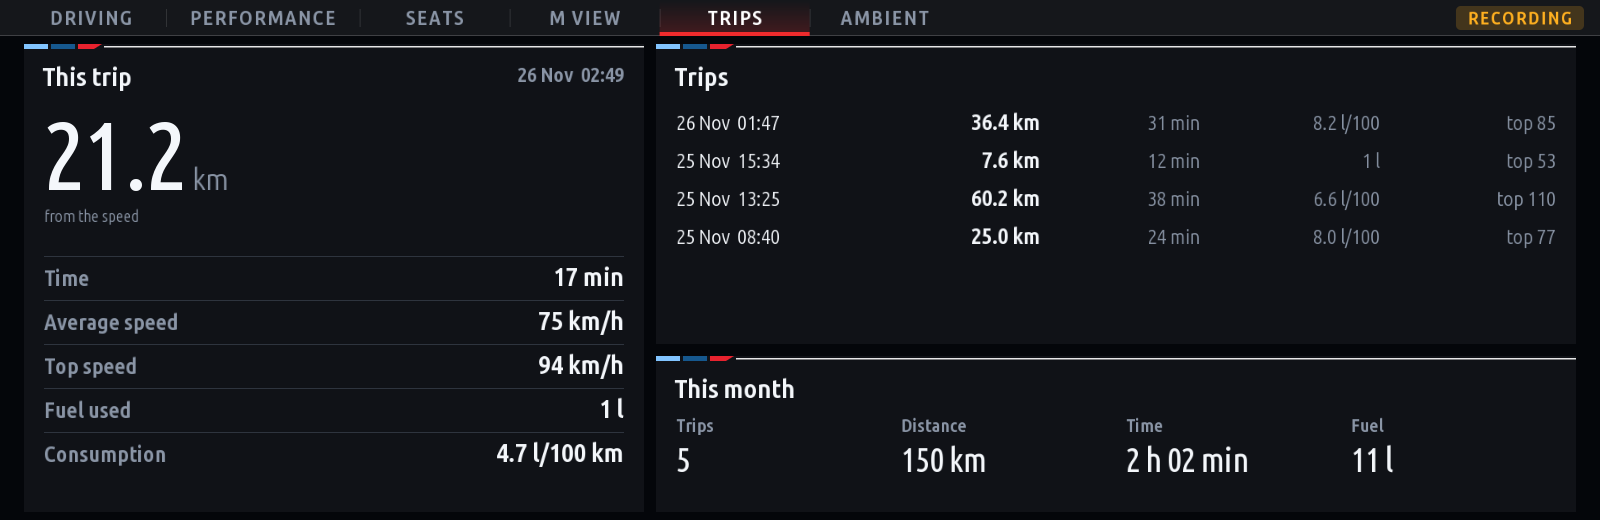
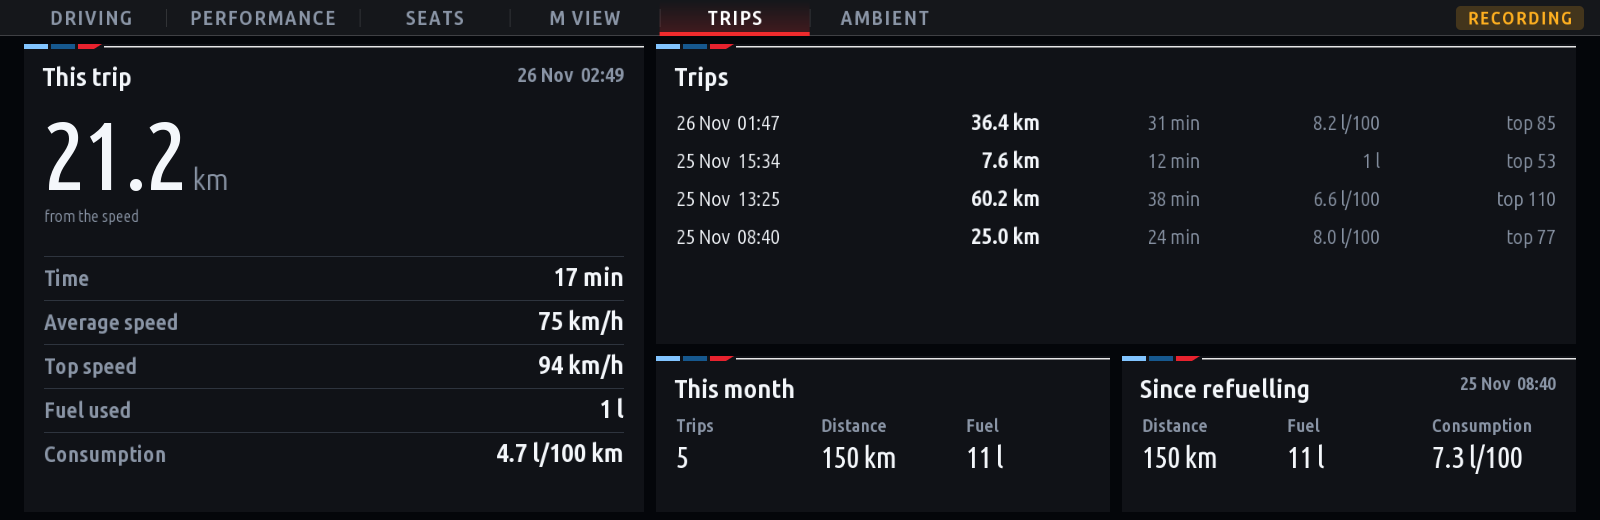
Trips: since refuelling - distance, fuel and consumption since the last refuel
A refuel: the tank's level 3 l or more over the lowest one since the last refuel, so also seen when it climbs a litre
at a time (Cockpit running at the pump) or happened between two drives (the last level kept in trips.json); the level
is followed up while it rises, so the count starts from the full tank. A trip's own fuel uses the same rule. The tab's
bottom right: This month and Since refuelling side by side. Tests: 100 Combo checks (the refuel cases new).

diff --git a/apps/cockpit_combo/trips.js b/apps/cockpit_combo/trips.js
@@ -11,6 +11,10 @@
  * Fuel: the tank's level (litres) at the start against the end; a rise of REFUEL_L or more is a refuel, and what was
  * used before it counts too. Consumption only from MIN_FUEL_KM on (the tank's level moves in whole litres).
  *
+ * Since refuelling: a rise of REFUEL_L or more in the tank's level, during a trip or between two (the level at a start
+ * against the last one known), starts a new count: the distance since (odometer or speed), the fuel since (the level
+ * just after the refuel less the level now) and the consumption, from MIN_FUEL_KM on.
+ *
  * Kept in trips.json in the app's data folder (at most KEEP trips, newest first): saved when a trip ends, every
  * SAVE_MS while one runs, and as the app exits; a trip running when the app stopped is resumed if the car is driven
  * again within RESUME_MS of its last save, else ended there.
@@ -18,7 +22,7 @@
  *   const tb = new Trips({ dataDir, log, now, settings })
  *   tb.tick({ speed, condition })     once a second: the speed (km/h) and the car's state (Car.conditionOf) now
  *   tb.odometer(km)  tb.fuel(litres)  the car's values as they come (null: not given)
- *   tb.current  tb.trips  tb.months()  tb.endNow()  tb.save()  tb.draw(cv, t)
+ *   tb.current  tb.trips  tb.months()  tb.sinceRefuel()  tb.endNow()  tb.save()  tb.draw(cv, t)
  */
 const fs = require('fs');
 const path = require('path');
@@ -50,12 +54,14 @@ class Trips {
         try { d = JSON.parse(fs.readFileSync(this.file, 'utf8')); } catch (e) { d = null; }
         if (!d) return;
         this.trips = Array.isArray(d.trips) ? d.trips.filter((x) => x && isNum(x.start)) : [];
+        if (d.since && isNum(d.since.at)) this.since = d.since;
+        if (isNum(d.level)) this.lastLevel = d.level;
         // a trip running when the app last stopped: resumed below if the car is driven again soon, else ended there
         if (d.current && isNum(d.current.start)) this.paused = d.current;
     }
     save() {
         if (!this.file) return;
-        try { writeWhole(this.file, JSON.stringify({ v: 1, current: this.current, trips: this.trips.slice(0, KEEP) })); this.savedAt = this.now(); } catch (e) { this.log.warn('trips: ' + e.message); }
+        try { writeWhole(this.file, JSON.stringify({ v: 1, current: this.current, since: this.since || null, level: isNum(this.lastLevel) ? this.lastLevel : null, trips: this.trips.slice(0, KEEP) })); this.savedAt = this.now(); } catch (e) { this.log.warn('trips: ' + e.message); }
     }
 
     /** The car's odometer in km (whole km), as it comes. */
@@ -63,22 +69,38 @@ class Trips {
         if (!isNum(km) || km <= 0 || km >= 16777214) return;
         if (this.odo === null) this.log.info('trips: odometer ' + km + ' km');
         this.odo = km;
+        if (this.since && !isNum(this.since.odo0)) this.since.odo0 = km;
         const c = this.current;
         if (c) { if (!isNum(c.odo0)) c.odo0 = km; c.odo1 = km; }
     }
-    /** The fuel in the tank, litres, as it comes. */
+    /**
+     * The fuel in the tank, litres, as it comes. A refuel: the level REFUEL_L or more over the lowest one since the last
+     * refuel (also when it climbs a litre at a time, the app running at the pump); the level is then followed up while
+     * it rises, so the count starts from the full tank.
+     */
     fuel(l) {
         if (!isNum(l) || l < 0 || l > 250) return;
         if (this.litres === null) this.log.info('trips: fuel in the tank ' + l + ' l');
         this.litres = l;
+        // since refuelling (the last level known kept across restarts: a refuel while the app wasn't running counts too)
+        if (!isNum(this.floor)) this.floor = isNum(this.lastLevel) ? Math.min(this.lastLevel, l) : l;
+        if (this.filling && this.since && l > this.floor) {
+            this.since.level = Math.max(this.since.level, l); this.floor = l;            // still filling up: the count from the top
+        } else if (l >= this.floor + REFUEL_L) {
+            this.log.info('trips: refuelled ' + this.floor + ' > ' + l + ' l: counting since refuelling');
+            this.since = { at: this.now(), level: l, kmSum: 0, odo0: isNum(this.odo) ? this.odo : null };
+            this.filling = true; this.floor = l;
+            this.save();
+        } else if (l < this.floor) { this.floor = l; this.filling = false; }
+        this.lastLevel = l;
+        // this trip's fuel: what the tank lost, before and after a refuel on the way
         const c = this.current;
         if (!c) return;
-        if (!isNum(c.fuel0)) { c.fuel0 = l; c.fuelBase = l; c.fuelUsed = 0; c.fuelLast = l; return; }
-        if (l >= c.fuelLast + REFUEL_L) {
-            // a refuel: what the tank lost since the last base counts, the new level is the base from here
-            c.fuelUsed += Math.max(0, c.fuelBase - c.fuelLast); c.fuelBase = l; c.refuelled = true;
-            this.log.info('trips: refuelled to ' + l + ' l');
-        }
+        if (!isNum(c.fuel0)) { c.fuel0 = l; c.fuelBase = l; c.fuelUsed = 0; c.fuelLow = l; c.fuelLast = l; return; }
+        if (c.filling && l > c.fuelLow) { c.fuelBase = Math.max(c.fuelBase, l); c.fuelLow = l; }
+        else if (l >= c.fuelLow + REFUEL_L) {
+            c.fuelUsed += Math.max(0, c.fuelBase - c.fuelLow); c.refuelled = true; c.filling = true; c.fuelBase = l; c.fuelLow = l;
+        } else if (l < c.fuelLow) { c.fuelLow = l; c.filling = false; }
         c.fuelLast = l;
     }
 
@@ -98,6 +120,7 @@ class Trips {
             const dt = this.lastT === null ? 0 : (now - this.lastT) / 1000;
             if (dt > 0 && dt <= MAX_GAP_S) {
                 c.kmSum += speed * dt / 3600;
+                if (this.since) this.since.kmSum = (this.since.kmSum || 0) + speed * dt / 3600;
                 if (speed > MOVING_KMH) c.movingS += dt;
             }
             if (speed > c.top) c.top = speed;
@@ -144,6 +167,15 @@ class Trips {
         const fuel = isNum(c.fuel0) ? c.fuelUsed + Math.max(0, c.fuelBase - c.fuelLast) : null;
         return { start: c.start, end: c.end, km, kmFrom: odo !== null ? 'odometer' : 'speed', movingS: Math.round(c.movingS), top: Math.round(c.top),
             fuel, per100: isNum(fuel) && km >= MIN_FUEL_KM ? Math.round(fuel / km * 1000) / 10 : null, refuelled: !!c.refuelled };
+    }
+    /** Since the last refuel seen: { at, km, kmFrom, fuel, per100 }, or null (none seen yet). */
+    sinceRefuel() {
+        const r = this.since;
+        if (!r) return null;
+        const odo = isNum(r.odo0) && isNum(this.odo) && this.odo - r.odo0 >= 1 ? this.odo - r.odo0 : null;
+        const km = odo !== null ? odo : Math.round((r.kmSum || 0) * 10) / 10;
+        const fuel = isNum(this.lastLevel) ? Math.max(0, r.level - this.lastLevel) : null;
+        return { at: r.at, km, kmFrom: odo !== null ? 'odometer' : 'speed', fuel, per100: isNum(fuel) && km >= MIN_FUEL_KM ? Math.round(fuel / km * 1000) / 10 : null };
     }
     /** The running trip's summary, or the last one's. */
     shown() { return this.current ? Object.assign(this.closed(this.current), { live: true }) : this.trips[0] || null; }
@@ -196,19 +228,30 @@ class Trips {
             cv.text(isNum(x.per100) ? (mi ? G.fmt(235.215 / x.per100, 1) + ' mpg' : G.fmt(x.per100, 1) + ' l/100') : isNum(x.fuel) ? litres(x.fuel) : '', 1380, y, 20, t.dim, { align: 'right' });
             cv.text('top ' + G.fmt(D(x.top), 0), 1556, y, 20, t.dim, { align: 'right' });
         });
-        // right bottom: this month
-        const my = 44 + listH + 12, mh = 468 + ex - listH - 12, mo = this.months()[0];
-        G.panel(cv, t, 656, my, 920, mh, 'This month');
+        // right bottom: this month, and since refuelling (side by side)
+        const my = 44 + listH + 12, mh = 468 + ex - listH - 12, mo = this.months()[0], pw = 454;
+        G.panel(cv, t, 656, my, pw, mh, 'This month');
         const cur = new Date(this.now()), key = cur.getFullYear() + '-' + String(cur.getMonth() + 1).padStart(2, '0');
         const a = mo && mo.key === key ? mo : { trips: 0, km: 0, hours: 0, fuel: 0 };
-        [['Trips', String(a.trips)], ['Distance', G.fmt(D(a.km), 0) + ' ' + dU], ['Time', dur(a.hours * 60)], ['Fuel', a.fuel ? G.fmt(a.fuel, 0) + ' l' : '--']].forEach(([k, v], i) => {
-            const x = 676 + i * 225;
-            cv.text(k, x, my + 76, 18, t.dim, { font: 'bold' });
-            cv.text(v, x, my + 116, 34, a.trips ? t.text : t.dim, { font: 'num' });
-        });
+        cells(cv, t, 676, my, [['Trips', String(a.trips)], ['Distance', G.fmt(D(a.km), 0) + ' ' + dU], ['Fuel', a.fuel ? G.fmt(a.fuel, 0) + ' l' : '--']], !!a.trips);
+        const rx = 656 + pw + 12, r = this.sinceRefuel();
+        G.panel(cv, t, rx, my, 1576 - rx, mh, 'Since refuelling');
+        if (!r) cv.text('Counts from the next refuel', rx + 20, my + 100, 20, t.dim);
+        else {
+            cv.text(when(r.at), 1556, my + 34, 18, t.dim, { align: 'right', font: 'bold' });
+            cells(cv, t, rx + 20, my, [['Distance', G.fmt(D(r.km), 0) + ' ' + dU], ['Fuel', isNum(r.fuel) ? litres(r.fuel) : '--'],
+                ['Consumption', isNum(r.per100) ? (mi ? G.fmt(235.215 / r.per100, 1) + ' mpg' : G.fmt(r.per100, 1) + ' l/100') : 'from ' + MIN_FUEL_KM + ' ' + dU]], true);
+        }
     }
 }
 
+/** A panel's row of labelled values, 145 px apart. */
+function cells(cv, t, x, y, items, on) {
+    items.forEach(([k, v], i) => {
+        cv.text(k, x + i * 145, y + 76, 18, t.dim, { font: 'bold' });
+        cv.text(v, x + i * 145, y + 112, v.length > 10 ? 24 : 30, on && !/^--$|^from /.test(v) ? t.text : t.dim, { font: 'num' });
+    });
+}
 function big(cv, t, x, y, text, unit, size) {
     const w = cv.text(text, x, y, size, t.text, { font: 'num' });
     cv.text(' ' + unit, x + w, y, 30, t.dim);

diff --git a/kit/tools/test_combo.js b/kit/tools/test_combo.js
@@ -880,6 +880,46 @@ checks.push(
         const empty = await draw(new Trips({ log, now: () => clock }), 'kmh');
         assert(empty.includes('No trip yet') && !empty.some((q) => /NaN|undefined/.test(q)), empty.join(' | '));
     }],
+    ['2.9.0 since refuelling: a refuel (also a litre at a time at the pump, or while the app was off) starts a count: distance, fuel, consumption', async () => {
+        const { Trips } = appModule('trips');
+        let clock = Date.UTC(2026, 10, 25, 8, 0, 0);
+        const lines = [], log = { info: (m) => lines.push(m), warn: (m) => lines.push('WARN ' + m) };
+        const dir = tmp('refuel'), mk = () => new Trips({ dataDir: dir, log, now: () => clock });
+        const run = (tb, s, kmh, cond) => { for (let i = 0; i < s; i++) { clock += 1000; tb.tick({ speed: kmh, condition: cond }); } };
+        let tb = mk();
+        tb.fuel(20); tb.fuel(21); tb.fuel(20);
+        assert.strictEqual(tb.sinceRefuel(), null, 'no refuel seen yet');
+        const empty = await textsOf(() => tb.draw(new Canvas(1600, 520), themes.theme('m_tricolour')));
+        assert(empty.includes('Counts from the next refuel'), empty.join(' | '));
+        // at the pump, the app running: the level climbs a litre at a time to 55
+        tb.odometer(1000);
+        for (let l = 21; l <= 55; l++) { clock += 5000; tb.fuel(l); }
+        let r = tb.sinceRefuel();
+        assert(r && r.fuel === 0 && r.km === 0 && lines.filter((m) => /refuelled/.test(m)).length === 1, 'one refuel, counted from the full tank: ' + JSON.stringify(r) + ' ' + lines.join(' | '));
+        // driven 450 km (odometer), 30 l used: 6.7 l/100
+        run(tb, 1, 0, 10); run(tb, 600, 100, 10); tb.odometer(1450); tb.fuel(40); tb.fuel(25); run(tb, 62, 0, 5);
+        r = tb.sinceRefuel();
+        assert(r.km === 450 && r.kmFrom === 'odometer' && r.fuel === 30 && r.per100 === 6.7, JSON.stringify(r));
+        // kept across a restart
+        tb.save(); tb = mk(); tb.odometer(1450); tb.fuel(25);
+        r = tb.sinceRefuel();
+        assert(r && r.km === 450 && r.fuel === 30, 'after a restart: ' + JSON.stringify(r));
+        // refuelled while the app wasn't running: the first level against the last one known
+        tb.save(); tb = mk(); clock += 3600000; tb.odometer(1452); tb.fuel(52);
+        r = tb.sinceRefuel();
+        assert(r && r.fuel === 0 && r.km === 0, 'a refuel between two starts: ' + JSON.stringify(r));
+        // without the odometer: the speed's distance; consumption only from 20 km
+        const d2 = tmp('refuel-speed'), t2 = new Trips({ dataDir: d2, log, now: () => clock });
+        t2.fuel(15); t2.fuel(50); run(t2, 1, 0, 10); run(t2, 360, 100, 10); t2.fuel(49);
+        r = t2.sinceRefuel();
+        assert(r.kmFrom === 'speed' && Math.abs(r.km - 10) < 0.2 && r.fuel === 1 && r.per100 === null, '10 km: no consumption yet: ' + JSON.stringify(r));
+        // a refuel during a trip, a litre at a time: the trip's fuel is what went before it and after it
+        t2.fuel(40); for (let l = 41; l <= 58; l++) t2.fuel(l); t2.fuel(55);
+        assert.strictEqual(t2.closed(t2.current).fuel, 13, 'trip fuel: 50 > 40, then 58 > 55: ' + JSON.stringify(t2.closed(t2.current)));
+        const tx = await textsOf(() => t2.draw(new Canvas(1600, 520), themes.theme('m_tricolour')));
+        assert(tx.some((q) => /^from 20 km$/.test(q)) || tx.some((q) => /l\/100$/.test(q)), tx.join(' | '));
+        assert(!tx.some((q) => /NaN|undefined|null/.test(q)), tx.join(' | '));
+    }],
     ['2.9.0 the Trips tab: between M View and Ambient, End trip, off in Settings > Tabs', async () => {
         const b = await boot(tmp('tripstab'));
         const t4 = await b.tab(4);

diff --git a/README.md b/README.md
@@ -110,7 +110,7 @@ The engine's and gearbox's health at a glance:
 
 ### Trips
 
-<img src="docs/screens/cockpit_trips.png" alt="Trips: this trip's distance, time, average and top speed, fuel and consumption; the last trips; this month's totals" width="100%">
+<img src="docs/screens/cockpit_trips.png" alt="Trips: this trip's distance, time, average and top speed, fuel and consumption; the last trips; this month's totals; since refuelling" width="100%">
 
 A trip book, kept by itself (new in 2.9.0, a first version):
 
@@ -119,7 +119,10 @@ A trip book, kept by itself (new in 2.9.0, a first version):
 - **Each trip:** when, distance, time, average and top speed, the fuel used and the consumption. The distance comes
   from the car's odometer where it sends one, else from the speed; the fuel from the tank's level, so it counts in
   whole litres, a refuel on the way is noticed, and the consumption shows from 20 km on.
-- **This month:** trips, distance, time and fuel.
+- **This month:** trips, distance and fuel.
+- **Since refuelling:** distance, fuel and consumption since the last refuel. A refuel is the tank's level rising 3 l
+  or more, also a litre at a time with Cockpit running at the pump, or between two drives; the count starts from the
+  full tank. Over a tank's worth of driving this is the most exact consumption Cockpit shows.
 - Kept on the head unit (the last 1000 trips). Recorded whichever tab shows; with the Trips tab switched off, nothing.
 
 Which of the odometer and fuel values a car offers to apps is logged once as each first comes (`trips signal` lines in
